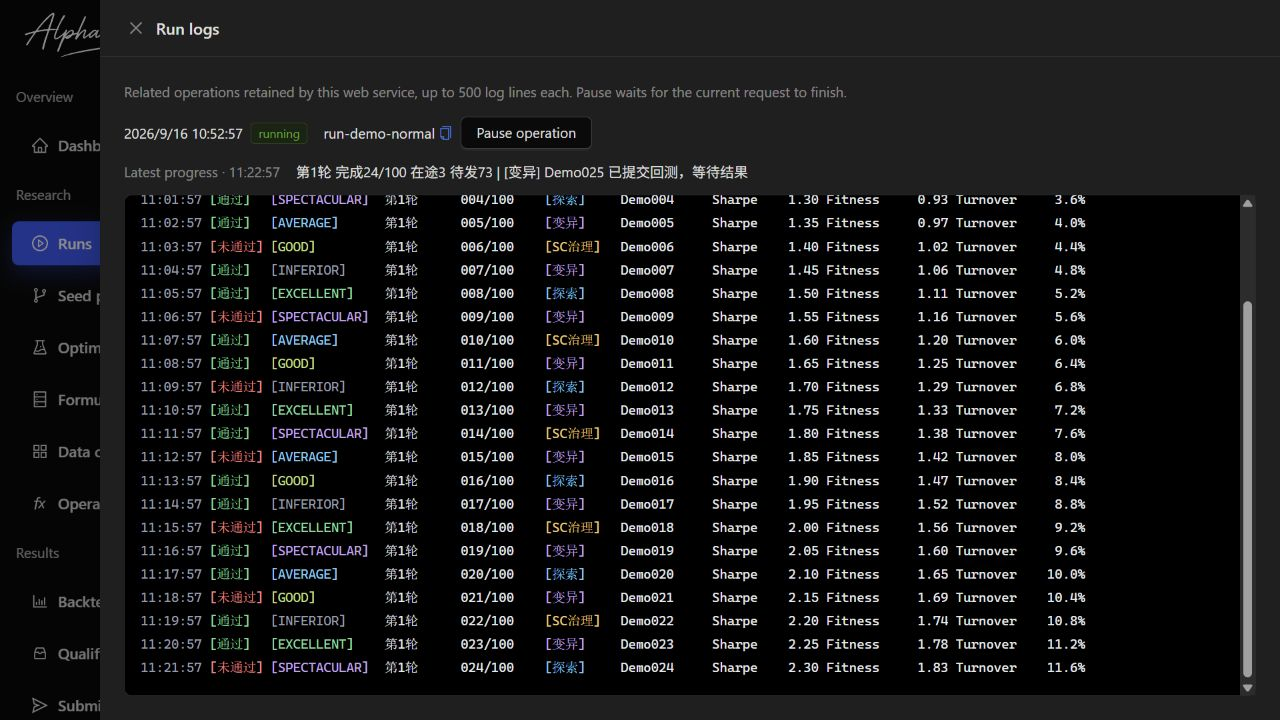
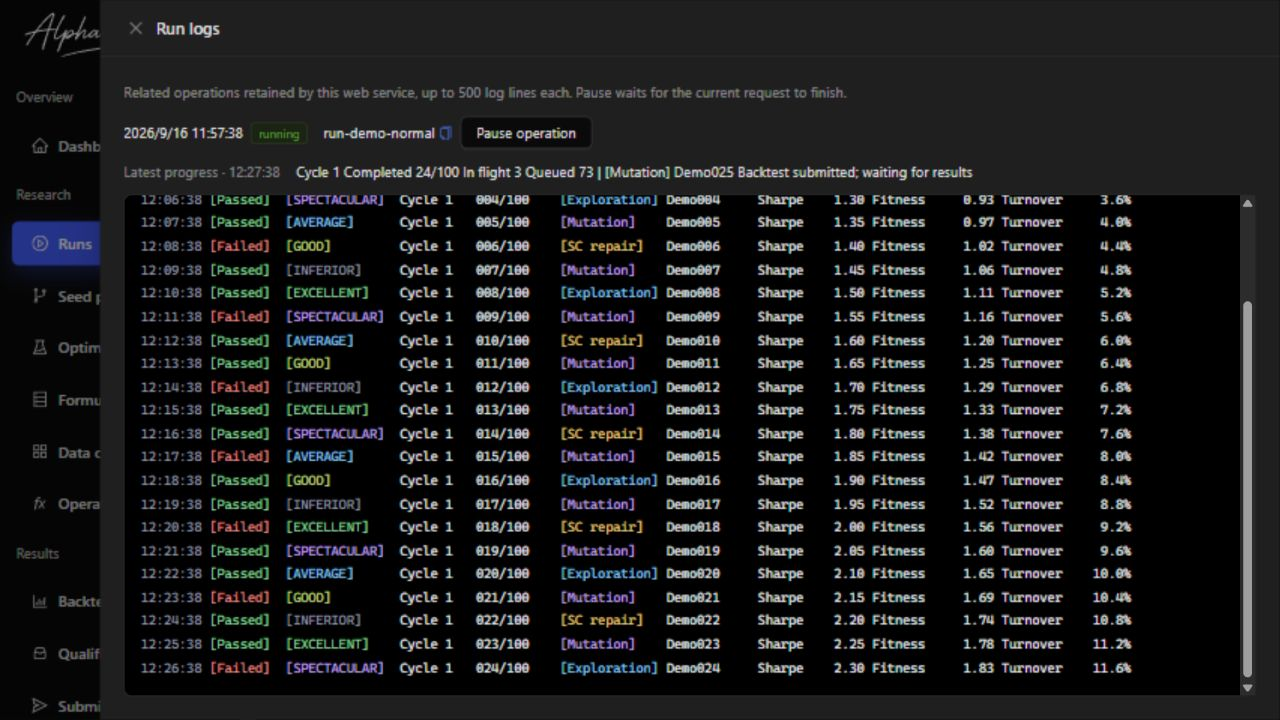
fix: localize run logs and live progress

diff --git a/webui/src/api/log-presentation.ts b/webui/src/api/log-presentation.ts
@@ -1,0 +1,137 @@
+// Translate only the engine's known message templates. Platform diagnostics,
+// identifiers and unknown messages remain verbatim; stored logs are never changed.
+const messages: Record<string, string> = {
+  "通过": "Passed", "未通过": "Failed", "待定": "Pending", "异常": "Error", "未知": "Unknown",
+  "探索": "Exploration", "变异": "Mutation", "SC治理": "SC repair", "反转": "Reversal",
+  "平台认证中...": "Authenticating with the platform...",
+  "平台认证完成": "Platform authentication completed",
+  "评级提升专项：读取完整检查通过的活动父代...": "Grade optimization: loading active parents that passed all checks...",
+  "公式生成中，读取研究证据并准备探索与改善候选...": "Generating formulas: loading research evidence and preparing exploration and improvement candidates...",
+  "公式筛选与回测计划冻结中...": "Selecting formulas and finalizing the backtest plan...",
+  "开始回测，按可用并发名额推进": "Starting backtests using available concurrent slots",
+  "结算与学习反馈中...": "Settling results and processing learning feedback...",
+  "结算与学习反馈完成": "Settlement and learning feedback completed",
+  "评级提升专项无可继续变异的合格候选，本次结束": "Grade optimization finished: no eligible candidates remain for further mutation",
+  "状态为完成，但指标缺失，不能展示得分": "Marked completed, but metrics are missing; scores are unavailable",
+  "发送失败（429重试耗尽，未被平台接受）": "Request failed (429 retries exhausted; not accepted by the platform)",
+  "结果读取失败；远端结果未确认": "Could not read results; remote outcome is unconfirmed",
+  "接收超时；远端未知，不重发": "Acceptance timed out; remote outcome is unknown; no resend",
+  "等待超时；远端结果未决": "Wait timed out; remote outcome is unresolved",
+  "回测请求发送中，尚未确认接收": "Sending backtest request; acceptance is not yet confirmed",
+  "提交结果未知，保留名额，只对账、不重发": "Submission outcome unknown; slot retained; reconciling without resending",
+  "旧请求收取暂未成功，保留名额，稍后重查": "Could not collect the previous request; slot retained; checking again later",
+  "指标已收到，等待年度数据；尚未完整完成": "Metrics received; waiting for annual data; not fully completed",
+  "平台计算已结束，等待完整指标与检查": "Platform calculation finished; waiting for complete metrics and checks",
+  "已提交回测，等待结果": "Backtest submitted; waiting for results",
+  "收取结果遇到429限流，该任务延后检查，结果保持待定": "Result polling rate limited (429); checking this task later; outcome remains pending",
+  "收取结果暂未成功，该任务延后检查，不影响发送限流计数": "Result polling unsuccessful; checking this task later; send rate-limit count unchanged",
+  "发送回测处于限流冷却，批次继续保留": "Backtest requests are cooling down after rate limiting; batch retained",
+  "回测名额已满，等待结果并对账，不重复发送": "All backtest slots occupied; waiting for results and reconciling; no duplicate requests",
+  "回测仍在进行，按平台要求等待后继续检查": "Backtest still running; waiting as requested by the platform before checking again",
+  "入队检查等待平台重试时间；不会生成或发送下一批公式": "Queue checks are waiting for the platform retry time; next batch will not be generated or sent yet",
+  "进度暂时无法读取；任务仍按原流程执行。": "Progress temporarily unavailable; tasks continue as planned.",
+  "提交进度暂不可读；不改变提交状态": "Submission progress temporarily unavailable; submission state unchanged",
+  "操作未完成；请检查运行状态、账号配置及是否已有命令占用数据库。": "Operation did not complete; check the run status, account configuration and whether another command is using the database.",
+  "正式提交：平台认证中": "Formal submission: authenticating with the platform",
+  "正式提交：平台认证完成": "Formal submission: platform authentication completed",
+  "正式提交：会话已重新认证": "Formal submission: session reauthenticated",
+  "正在收尾已中断的研究批次：取消未发送任务，收取已发送回测；本次只提交已选定的公式。": "Finishing an interrupted research batch: cancelling unsent tasks and collecting sent backtests; only the selected formulas will be submitted.",
+  "读取详情": "Reading details", "检查中": "Checking", "检查通过": "Checks passed",
+  "发送中": "Sending", "确认中": "Confirming", "结果未知": "Outcome unknown",
+  "已提交": "Submitted", "检查未过": "Checks failed", "失败": "Failed",
+  "提交前等待超时，已跳过": "Pre-submission wait timed out; skipped",
+  "提交前读取失败，已跳过": "Pre-submission read failed; skipped",
+  "评级未确认，已跳过": "Grade unconfirmed; skipped",
+  "通过，已核对入队资格": "Passed; queue eligibility checked",
+  "未通过，不入队": "Failed; not queued",
+  "待定，不入队": "Pending; not queued",
+  "检查通过；评级未确认，不入队": "Checks passed; grade unconfirmed; not queued",
+  "暂未就绪": "not ready yet",
+};
+
+const templates: [RegExp, string][] = [
+  [/^变异候选已选定，共 (\d+) 条$/, "Selected $1 mutation candidates"],
+  [/^公式生成完成，共 (\d+) 条候选$/, "Formula generation completed: $1 candidates"],
+  [/^筛选完成，已冻结本轮 (\d+) 条回测任务$/, "Selection completed: finalized $1 backtest tasks for this cycle"],
+  [/^候选规划未完成（(.+)），按已有任务状态收尾$/, "Candidate planning incomplete ($1); finishing according to existing task states"],
+  [/^平台认证暂未成功（(.+)），按原故障边界处理$/, "Platform authentication unsuccessful ($1); applying the configured failure limits"],
+  [/^请求暂未成功（(.+)），([\d.]+) 秒后重试$/, "Request unsuccessful ($1); retrying in $2 seconds"],
+  [/^请求退避等待中，剩余 ([\d.]+) 秒；不会提前重发。$/, "Request backoff: $1 seconds remaining; no early resend."],
+  [/^发送回测遇到429限流，冷却([\d.]+)秒；重试(\d+\/\d+)，继续收取在途结果$/, "Backtest request rate limited (429); cooling down for $1 seconds; retry $2; continuing to collect in-flight results"],
+  [/^自动正式提交：(.+)$/, "Automatic formal submission: $1"],
+  [/^正式提交：本次处理 (\d+) 条（含待恢复项）$/, "Formal submission: processing $1 candidates (including resumable items)"],
+  [/^正式提交：本次候选 (\d+) 条（含待恢复项），成功提交 (\d+) 条后停止；检查失败跳过，原已提交的同步不计入数量。$/, "Formal submission: $1 candidates (including resumable items); stop after $2 successful submissions; skip failed checks; syncing previously submitted formulas does not count."],
+  [/^正式提交：(\S+) 本地相关性或改善机会待重新确认，暂缓提交；未发送提交请求。$/, "Formal submission: $1 local correlation or improvement opportunities need rechecking; deferred; no submission request sent."],
+  [/^提交前读取暂未成功（(.+)），([\d.]+) 秒后重试；尚未发送正式提交。$/, "Pre-submission read unsuccessful ($1); retrying in $2 seconds; formal submission has not been sent."],
+  [/^评级 (\S+)，未达 SPECTACULAR，已跳过$/, "Grade $1 is below SPECTACULAR; skipped"],
+  [/^评级从 (\S+) 变为 (\S+)，不符合所选等级，已跳过$/, "Grade changed from $1 to $2; no longer matches the selected grade; skipped"],
+  [/^正在处理 (\d+\/\d+) (\S+)$/, "Processing $1 $2"],
+  [/^通过(\d+) 已交(\d+) 未过(\d+) 失败(\d+) 待定(\d+)$/, "Passed $1 Submitted $2 Ineligible $3 Failed $4 Pending $5"],
+  [/^请求异常（(.+)），不入队$/, "Request error ($1); not queued"],
+  [/^检查通过；评级 (\S+) 未达 SPECTACULAR，不入队$/, "Checks passed; grade $1 is below SPECTACULAR; not queued"],
+  [/^正在获取时序数据 (\S+)（已获取 (\d+\/\d+)）$/, "Fetching time series for $1 (collected $2)"],
+  [/^时序数据 (\S+) 获取完成（已获取 (\d+\/\d+)）$/, "Time series collected for $1 (collected $2)"],
+  [/^读取失败（(.+)）$/, "read failed ($1)"],
+  [/^已确认提交事实已保存，但公式清单更新失败（(.+)）；可运行 (.+) 重建。$/, "Confirmed submission saved, but formula export failed ($1); run $2 to rebuild it."],
+];
+
+const resultPattern = /^(\[(?:通过|未通过|待定|异常)\])\s+(\[[^\]\r\n]+\])\s+(第\d+轮)\s+(\d+\/\d+)\s+(\[(?:探索|变异|SC治理|反转)\])\s+(\S+)\s+(.*)$/;
+
+function expandMetrics(message: string) {
+  return message.replace(/^S\s*(-?\d+\.\d+) F\s*(-?\d+\.\d+) T\s*(-?\d+\.\d+%)(?= 旧\S+$|$)/,
+    (_, sharpe: string, fitness: string, turnover: string) =>
+      `Sharpe ${sharpe.padStart(6)}  Fitness ${fitness.padStart(6)}  Turnover ${turnover.padStart(6)}`);
+}
+
+function translate(message: string): string {
+  if (Object.hasOwn(messages, message)) return messages[message];
+  let match = /^\[(通过|未通过|待定|异常|未知|探索|变异|SC治理|反转)\]$/.exec(message);
+  if (match) return `[${messages[match[1]]}]`;
+  match = /^第(\d+)轮$/.exec(message);
+  if (match) return `Cycle ${match[1]}`;
+  match = /^(?:第 (\d+) 轮 )?阶段\[(\d+)\] (.*)$/.exec(message);
+  if (match) return `${match[1] ? `Cycle ${match[1]} ` : ""}Phase[${match[2]}] ${translate(match[3])}`;
+  match = /^第(\d+)轮 完成(\d+\/\d+) 在途(\d+) 待发(\d+) \| (\[(?:探索|变异|SC治理|反转)\]) (\S+) (.*)$/.exec(message);
+  if (match) return `Cycle ${match[1]} Completed ${match[2]} In flight ${match[3]} Queued ${match[4]} | ${translate(match[5])} ${match[6]} ${translate(match[7])}`;
+  match = /^(.*) 旧(\S+)$/.exec(message);
+  if (match) return `${translate(match[1])} Previous run ${match[2]}`;
+  match = /^回测失败（([^）]+)）(：.*)?$/.exec(message);
+  if (match) return `Backtest failed (${match[1] === "原因未提供" ? "reason not provided" : match[1]})${match[2] ? `: ${match[2].slice(1)}` : ""}`;
+  match = /^(种子|恢复)相关性：(.*)$/.exec(message);
+  if (match) return `${match[1] === "种子" ? "Seed" : "Recovery"} correlation: ${translate(match[2])}`;
+  match = /^时序数据 (\S+) (.+)，证据待定，([\d.]+) 秒后可重试$/.exec(message);
+  if (match) return `Time series for ${match[1]} ${translate(match[2])}; evidence pending; retry available in ${match[3]} seconds`;
+  match = /^时序数据 (\S+) (读取失败（.+）)$/.exec(message);
+  if (match) return `Time series for ${match[1]} ${translate(match[2])}`;
+  match = /^提交进度 (\d+\/\d+) \| (.*)$/.exec(message);
+  if (match) return `Submission progress ${match[1]} | ${translate(match[2])}`;
+  match = /^提交 (\d+\/\d+) (\S+) (.*) \| (.*)$/.exec(message);
+  if (match) return `Submission ${match[1]} ${match[2]} ${translate(match[3])} | ${translate(match[4])}`;
+  match = /^(旧|本批)入队检查 (\S+)：(.*)$/.exec(message);
+  if (match) return `${match[1] === "旧" ? "Previous" : "Current batch"} queue check ${match[2]}: ${translate(match[3])}`;
+  const deferred = "；已安排延后自动复查，不阻塞回测";
+  if (message.endsWith(deferred)) return `${translate(message.slice(0, -deferred.length))}; automatic recheck scheduled; backtests are not blocked`;
+  for (const [pattern, replacement] of templates) {
+    if (pattern.test(message)) return message.replace(pattern, replacement);
+  }
+  return message;
+}
+
+const resultLegend = "结果列：状态 | 平台评级 | 轮次/序号 | 探索/SC治理/变异/反转 | Alpha ID | S=夏普 F=适应度 T=换手率；通过/未通过/待定仅表示基础检查，评级缺失显示未知，异常见行末原因";
+
+export function presentLog(message: string, zh: boolean) {
+  const match = resultPattern.exec(message);
+  const fields = match?.slice(1, 7).map((part) => `${zh ? part : translate(part)} `);
+  const rawDetail = match ? expandMetrics(match[7]) : undefined;
+  const detail = rawDetail === undefined ? undefined : zh ? rawDetail : translate(rawDetail);
+  let text = fields ? fields.join("") + detail : zh ? message : translate(message);
+  if (message === resultLegend) {
+    text = zh ? message.replace("；", "\n说明：")
+      : "Columns: Status | Platform grade | Cycle/Sequence | Exploration/SC repair/Mutation/Reversal | Alpha ID | S=Sharpe F=Fitness T=Turnover\nNote: Passed/Failed/Pending refer to basic checks only; missing grades show Unknown; errors include their reason at the end of the line.";
+  }
+  const warning = /^(?:请求暂未成功|发送回测遇到429限流|收取结果遇到429限流|收取结果暂未成功|发送回测处于限流冷却|进度暂时无法读取|提交进度暂不可读|入队检查等待平台重试时间|提交前读取暂未成功|已确认提交事实已保存)/.test(message)
+    || /^(?:恢复|种子)相关性：.*(?:读取失败|证据待定)/.test(message);
+  const tone = message.startsWith("操作未完成；") ? "error" : warning ? "warning"
+    : /^(?:第 \d+ 轮 )?阶段\[\d+\]/.test(message) ? "info" : undefined;
+  return { text, fields, detail, tone };
+}

diff --git a/webui/src/views/console/components/job-panel.tsx b/webui/src/views/console/components/job-panel.tsx
@@ -1,7 +1,8 @@
 import { Alert, Button, Empty, Select, Space, Tag, Typography } from "antd";
 import { Fragment, useLayoutEffect, useRef, useState } from "react";
 import { useConsole } from "@/api/use-console";
-import { logMessage, statusName, timestamp } from "@/api/presentation";
+import { statusName, timestamp } from "@/api/presentation";
+import { presentLog } from "@/api/log-presentation";
 import { errorMessage } from "@/api/console";
 import AlphaLoading from "@/components/alpha-loading";
 
@@ -22,6 +23,15 @@ const logTokenColors: Record<string, string> = {
   "[变异]": "purple",
   "[SC治理]": "warning",
   "[反转]": "lime",
+  "[PASSED]": "success",
+  "[FAILED]": "error",
+  "[PENDING]": "warning",
+  "[ERROR]": "error",
+  "[UNKNOWN]": "muted",
+  "[EXPLORATION]": "info",
+  "[MUTATION]": "purple",
+  "[SC REPAIR]": "warning",
+  "[REVERSAL]": "lime",
 };
 
 function LogTokens({ text }: { text: string }) {
@@ -31,31 +41,27 @@ function LogTokens({ text }: { text: string }) {
   });
 }
 
-function LogText({ message }: { message: string }) {
+function LogText({ message, zh }: { message: string; zh: boolean }) {
   // Terminal space padding cannot align CJK fallback fonts in the browser.
-  // Keep every captured character for copying, but place result fields in fixed columns.
-  const result = /^(\[(?:通过|未通过|待定|异常)\]\s+)(\[[^\]\r\n]+\]\s+)(第\d+轮\s+)(\d+\/\d+\s+)(\[(?:探索|变异|SC治理|反转)\]\s+)(\S+\s+)(.*)$/.exec(message);
-  if (result) {
-    const metrics = /^(Sharpe\s+)(-?\d+\.\d+)(\s+Fitness\s+)(-?\d+\.\d+)(\s+Turnover\s+)(-?\d+\.\d+%)$/.exec(result[7]);
+  // Copy the displayed text while keeping result fields aligned in both languages.
+  const { text, fields, detail, tone } = presentLog(message, zh);
+  if (fields && detail !== undefined) {
+    const metrics = /^(Sharpe\s+)(-?\d+\.\d+)(\s+Fitness\s+)(-?\d+\.\d+)(\s+Turnover\s+)(-?\d+\.\d+%)(.*)$/.exec(detail);
     return (
       <span className="ag-log-result">
-        {result.slice(1, 7).map((part, index) => <span key={index}><LogTokens text={part} /></span>)}
+        {fields.map((part, index) => <span key={index}><LogTokens text={part} /></span>)}
         {metrics ? (
           <span className="ag-log-metrics">
-            {metrics.slice(1).map((part, index) => <span key={index} className={index % 2 ? "ag-log-number" : undefined}>{part}</span>)}
+            {metrics.slice(1, 7).map((part, index) => <span key={index} className={index % 2 ? "ag-log-number" : undefined}>{part}</span>)}
+            {metrics[7]}
           </span>
-        ) : <span><LogTokens text={result[7]} /></span>}
+        ) : <span>{detail}</span>}
       </span>
     );
   }
-  const warning = /^(?:请求暂未成功|发送回测遇到429限流|收取结果遇到429限流|收取结果暂未成功|发送回测处于限流冷却|进度暂时无法读取|提交进度暂不可读|入队检查等待平台重试时间)/.test(message)
-    || /^(?:恢复|种子)相关性：.*(?:读取失败|证据待定)/.test(message);
-  const error = message.startsWith("操作未完成；");
-  const phase = /^(?:第 \d+ 轮 )?阶段\[\d+\]/.test(message);
-  const tone = error ? "error" : warning ? "warning" : phase ? "info" : undefined;
   return (
     <span className={tone ? `ag-log-${tone}` : undefined}>
-      <LogTokens text={message} />
+      <LogTokens text={text} />
     </span>
   );
 }
@@ -143,22 +149,22 @@ export function JobPanel({ zh, scope }: { zh: boolean; scope: JobScope }) {
                 {zh ? "最近进度" : "Latest progress"} ·{" "}
                 {new Date(job.progress.at).toLocaleTimeString()}
               </Typography.Text>
-              <Typography.Text>{job.progress.message}</Typography.Text>
+              <Typography.Text>{presentLog(job.progress.message, zh).text}</Typography.Text>
             </div>
           )}
           <pre
             ref={logRef}
             className="ag-operation-log"
+            lang={zh ? "zh-CN" : "en-US"}
             aria-label={zh ? "操作日志" : "Operation logs"}
           >
             {job.logs.length
               ? job.logs.map((line, index) => {
-                  const message = logMessage(line.message);
                   return (
                     <Fragment key={`${line.at}-${index}`}>
                       {index > 0 ? "\n" : ""}
                       <span className="ag-log-muted">{new Date(line.at).toLocaleTimeString()}</span>{" "}
-                      <LogText message={message} />
+                      <LogText message={line.message} zh={zh} />
                     </Fragment>
                   );
                 })

diff --git a/webui/src/api/presentation.ts b/webui/src/api/presentation.ts
@@ -6,13 +6,6 @@ export const progressGradients = [["#4354f7", "#949aff"], ["#bf8730", "#f1d45c"]
 export const gradeName = (grade?: string | null) => grade ? grade[0] + grade.slice(1).toLowerCase() : "—";
 export const metric = (value?: number | null, percent = false) => value == null ? "—" : percent ? `${(value * 100).toFixed(1)}%` : value.toFixed(2);
 export const timestamp = (value?: string | null) => value ? new Date(value).toLocaleString() : "—";
-export const logMessage = (message: string) => message
-  .replace(/^(结果列：.*)；(通过\/未通过\/待定.*)$/, "$1\n说明：$2")
-  .replace(
-  /\bS\s*(-?\d+\.\d+) F\s*(-?\d+\.\d+) T\s*(-?\d+\.\d+%)$/,
-  (_, sharpe: string, fitness: string, turnover: string) =>
-    `Sharpe ${sharpe.padStart(6)}  Fitness ${fitness.padStart(6)}  Turnover ${turnover.padStart(6)}`,
-);
 export const sourceName = (source: string | undefined, zh: boolean) => ({ exploration: ["探索", "Exploration"], sc: ["SC 治理", "SC repair"], mutation: ["变异", "Mutation"], reversal: ["反转", "Reversal"] })[source || ""]?.[zh ? 0 : 1] || "—";
 export function mutationDescription({ action, before, after }: { action: string; before: string; after: string }, zh: boolean) {
   const beforeOperator = /^\s*([A-Za-z_][\w]*)\s*\(/.exec(before)?.[1];

diff --git a/webui/src/styles/console.css b/webui/src/styles/console.css
@@ -64,6 +64,8 @@
 .ag-operation-log .ag-log-result > span:nth-child(4) { width: 11ch; }
 .ag-operation-log .ag-log-result > span:nth-child(5) { width: 10ch; }
 .ag-operation-log .ag-log-result > span:nth-child(6) { width: 12ch; }
+.ag-operation-log:lang(en) .ag-log-result > span:nth-child(1) { width: 10ch; }
+.ag-operation-log:lang(en) .ag-log-result > span:nth-child(5) { width: 14ch; }
 .ag-operation-log .ag-log-metrics > span { width: 7ch; }
 .ag-operation-log .ag-log-metrics > span:nth-child(3) { width: 10ch; }
 .ag-operation-log .ag-log-metrics > span:nth-child(5) { width: 11ch; }

diff --git a/webui/README.md b/webui/README.md
@@ -65,7 +65,7 @@ Existing databases with only `queue` and `qualified_archive` submission sources 
 - **Logs:** the last 20 web operations retain up to 500 log lines each in memory. The run page shows logs for the current running or stopping web operation and retains the most recent failed or needs-attention research operation, using its exact operation ID. The live connection, worker busy state and operation status determine active availability; a historical database status of running is insufficient. An operation without a run record has a Startup logs link in the configuration card. Successful completion closes the run-log drawer; failure keeps its error and logs visible until a later operation replaces it. Known errors have readable messages alongside their original codes. Submission logs remain scoped to submission operations. Restarting the service clears temporary logs; research results remain in SQLite.
 - **Settings:** displays the actual configuration rules, including category-dependent neutralization and truncation. Editing still uses the local configuration files.
 
-Seed and recovery correlation logs identify the Alpha before fetching its time series, then report completion with the collected/required count, or a pending/error result with its retry cooldown. These messages are retained in web operation logs and refreshed after a job-version notification; collection and retry rules are unchanged. Terminal platform failures retain the platform's message when supplied and include it after the error code in the log. Missing messages remain missing, and an unknown grade is not an error classification. The result-column legend displays its check-status explanation on a separate line. Backtest result rows use fixed-width status, grade, cycle, sequence, source and ID columns with right-aligned metric values, so mixed Chinese and English text stays aligned. They remain single-line text when selected and copied.
+Seed and recovery correlation logs identify the Alpha before fetching its time series, then report completion with the collected/required count, or a pending/error result with its retry cooldown. These messages are retained in web operation logs and refreshed after a job-version notification; collection and retry rules are unchanged. Terminal platform failures retain the platform's message when supplied and include it after the error code in the log. Missing messages remain missing, and an unknown grade is not an error classification. The result-column legend displays its check-status explanation on a separate line. Backtest result rows use fixed-width status, grade, cycle, sequence, source and ID columns with right-aligned metric values, so mixed Chinese and English text stays aligned. They remain single-line text when selected and copied. Log statuses, sources, cycle and phase labels, retry notices, correlation collection, submission messages and live progress follow the selected Chinese or English language. Translation is display-only: stored engine logs, platform diagnostics, IDs and error codes are preserved. Unknown message formats are shown verbatim.
 
 Main list tables have borders, left-aligned columns, 16-pixel horizontal cell padding and no surrounding cards. Detail and analysis sections group related data in cards. All lists and run details default to 10 records per page and allow choosing 10, 20, 50 or 100. Changing the page size returns to page 1 and updates the server query; resizing the window does not change the selected size or page. Submission candidates and history keep independent pagination. Run history smoothly adjusts row spacing and control padding to the desktop window height, keeping the default 10 records and pagination on one screen from 1280 by 720 without compressing medium-height windows unnecessarily. Larger page sizes can scroll. The run controls have no title bar. Its ID and action columns keep fixed widths instead of stretching with the table. Other lists retain their roomy spacing. Run-detail tables inherit the drawer background; formula-detail sections use the standard container background. Submission logs open from the configuration panel's Logs link in a drawer.
 

diff --git a/README.md b/README.md
@@ -37,7 +37,7 @@ A black terminal view keeps timestamps, check outcomes, platform grades, sources
 
 ![Run logs with colored results, aligned metrics and progress](assets/screenshots/run-logs.en-US.jpg)
 
-The console retains up to **500 lines per operation** for the current web-service session. These logs are temporary; restarting the service clears them without removing persisted research results. The interface is bilingual, while raw engine log messages currently remain in Chinese.
+The console retains up to **500 lines per operation** for the current web-service session. These logs are temporary; restarting the service clears them without removing persisted research results. Log statuses, sources, stages and live progress follow the selected Chinese or English language. Platform error messages and error codes retain their original text.
 
 ### Formula details
 

diff --git a/README.zh-CN.md b/README.zh-CN.md
@@ -37,7 +37,7 @@ Alpha Garden 是面向 **WorldQuant BRAIN** 的本地公式研究工作台，将
 
 ![运行日志：彩色结果、对齐的指标和实时进度](assets/screenshots/run-logs.zh-CN.jpg)
 
-当前网页服务为每次操作最多保留 **500 条日志**。这些日志是临时记录，重启服务后清空，但不会删除已经保存的研究结果。页面提供中英文界面，引擎原始日志目前仍为中文。
+当前网页服务为每次操作最多保留 **500 条日志**。这些日志是临时记录，重启服务后清空，但不会删除已经保存的研究结果。日志的状态、来源、阶段提示和实时进度随页面切换中英文，平台原始报错和错误码保留原文。
 
 ### 公式详情
 
